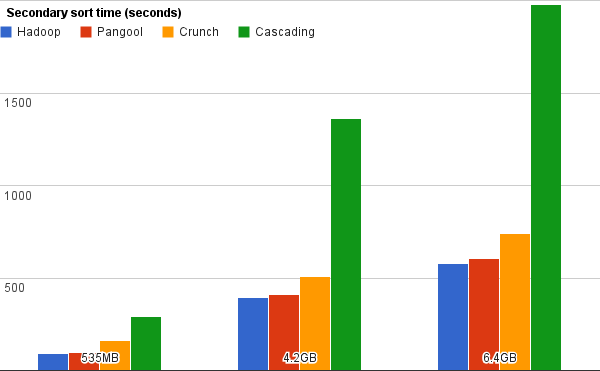
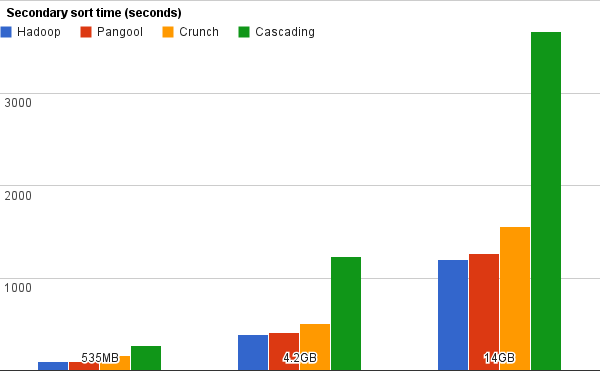
Updating benchmark

diff --git a/benchmark.html b/benchmark.html
@@ -6,20 +6,33 @@ title: Pangool Benchmark
 	<h1>Pangool Benchmark</h1>
 </div>
 
-<h2>Pangool efficiency</h2>
 <p>
 In order to demonstrate that Pangool performs comparable to Hadoop, we have designed a benchmark and executed it in EC2.
-The machines used were of type m1.large. We used Cloudera's CDH3 with its default Hadoop configuration.
+This benchmark has been updated as of <strong>8th of March of 2012</strong>.
 </p>
+<div class="alert">
+We take this benchmark seriously. We have made all its details publicly available so if you find something wrong or have any comment you can just tell us or submit a pull request. You can run this benchmark anytime by following its instructions and if you find something weird, please tell us. 
+</div>
 <p>
-We have executed three different examples with three different input sizes. Each of the examples were launched in a comparable
-implementation in Hadoop, Crunch and Cascading. You can see the implementations in the <a href='https://github.com/datasalt/pangool-benchmark'>pangool-benchmark project</a>. 
-If you find something wrong, please send us your feedback. You are free to suggest alternative implementations that could perform better.
+We have used <a href='http://whirr.apache.org/'>Whirr 0.7.1</a> to instantiate a CDH3 cluster with 4 m1.large slave nodes and 1 master node. We used the following properties:
 </p>
+<pre>
+whirr.cluster-name=cdh-cluster
+whirr.instance-templates=1 hadoop-jobtracker+hadoop-namenode+ganglia-monitor+ganglia-metad,4 hadoop-datanode+hadoop-tasktracker+ganglia-monitor
+whirr.provider=aws-ec2
+whirr.hadoop.install-function=install_cdh_hadoop
+whirr.hadoop.configure-function=configure_cdh_hadoop
+whirr.hardware-id=m1.large
+</pre>
 <p>
+We have executed three different examples with three different input sizes. Each of the examples were launched in a <strong>comparable
+implementation in Hadoop, Crunch and Cascading</strong>. You can see the implementations in the <a href='https://github.com/datasalt/pangool-benchmark'>pangool-benchmark project</a>. 
+If you find <strong>something wrong, please send us your feedback. You are free to suggest alternative implementations that could perform better</strong>.
+</p>
+<div class="alert">
 We have considered <a href='https://github.com/cloudera/crunch'>Crunch</a> and <a href='http://www.cascading.org/'>Cascading</a> for this benchmark in order to have more data points. 
 They are, however, different APIs that were conceived with other requirements in mind. Pangool aims to be a replacament of the low-level MapReduce Hadoop Java API, whereas both Crunch and Cascading abstract the user from MapReduce - which allows them to implement easier flow management, something that Pangool doesn't (yet) aim for.
-</p>
+</div>
 <p>
 For Cascading, we used the 1.2.5 stable release. For Crunch, we built the 0.2.0 version in 2012-02 and used Avro serialization
 because we found it to be much more efficient than TupleWritables.
@@ -39,9 +52,9 @@ in <a href='https://github.com/datasalt/pangool-benchmark/blob/master/src/main/j
 For generating the input datasets, we used the following commands (you'll find them in the launch-benchmark.sh script we mentioned above):
 </p>
 <pre>
-	hadoop jar $PANGOOL_EXAMPLES_JAR url_resolution_gen_data url-map-1.txt url-reg-1.txt 1000 10 1000
-	hadoop jar $PANGOOL_EXAMPLES_JAR url_resolution_gen_data url-map-2.txt url-reg-2.txt 5000 10 1000
-	hadoop jar $PANGOOL_EXAMPLES_JAR url_resolution_gen_data url-map-3.txt url-reg-3.txt 10000 10 1000
+hadoop jar $PANGOOL_EXAMPLES_JAR url_resolution_gen_data url-map-1.txt url-reg-1.txt 1000 10 1000
+hadoop jar $PANGOOL_EXAMPLES_JAR url_resolution_gen_data url-map-2.txt url-reg-2.txt 5000 10 1000
+hadoop jar $PANGOOL_EXAMPLES_JAR url_resolution_gen_data url-map-3.txt url-reg-3.txt 5000 50 1000
 </pre>
 <p>
 These are the results that we obtained in time (seconds) and IO (bytes):
@@ -51,9 +64,8 @@ These are the results that we obtained in time (seconds) and IO (bytes):
 <img src='images/benchmark/ur_io.png'/>
 </p>
 <p>
-We can see that all implementations had a comparable IO footprint. However, we clearly see that Pangool and Hadoop are much closer in efficiency than Crunch or Avro. In this case Pangool performed 8% worse than Hadoop, Crunch 27% and Cascading 65%.
+We can see that all implementations had a comparable IO footprint. However, we clearly see that Pangool and Hadoop are much closer in efficiency than Crunch or Avro. In this case Pangool performed 8% worse than Hadoop, Crunch 27% and Cascading 53%.
 </p>
-
 <h2>Secondary sort</h2>
 
 <p>
@@ -64,9 +76,9 @@ example in <a href='https://github.com/datasalt/pangool-benchmark/blob/master/sr
 For generating the input datasets, we used the following commands (you'll find them in the launch-benchmark.sh script we mentioned above):
 </p>
 <pre>
-	hadoop jar $PANGOOL_BENCHMARK_JAR wordcount_gen_data wordcount-1.txt 1000000 50 4
-	hadoop jar $PANGOOL_BENCHMARK_JAR wordcount_gen_data wordcount-2.txt 5000000 50 4
-	hadoop jar $PANGOOL_BENCHMARK_JAR wordcount_gen_data wordcount-3.txt 10000000 50 4
+hadoop jar $PANGOOL_EXAMPLES_JAR secondarysort_gen_data secondarysort-1.txt 100 100 1000
+hadoop jar $PANGOOL_EXAMPLES_JAR secondarysort_gen_data secondarysort-2.txt 200 200 2000
+hadoop jar $PANGOOL_EXAMPLES_JAR secondarysort_gen_data secondarysort-3.txt 300 300 3000
 </pre>
 <p>
 These are the results that we obtained in time (seconds) and IO (bytes):
@@ -76,7 +88,7 @@ These are the results that we obtained in time (seconds) and IO (bytes):
 <img src='images/benchmark/ss_io.png'/>
 </p>
 <p>
-In this example Hadoop and Pangool are both close in efficiency and IO footprint. However, Cascading deviates considerably in both aspects. Pangool performed 5% worse than Hadoop, Crunch 28% and Cascading 243%.
+In this example Hadoop and Pangool are both close in efficiency and IO footprint. However, Cascading deviates considerably in both aspects. Pangool performed 5% worse than Hadoop, Crunch 28% and Cascading 205%.
 </p>
 
 <h2>Standard Word Count</h2>
@@ -89,9 +101,9 @@ Click to see the implementations for <a href='https://github.com/datasalt/pangoo
 For generating the input datasets, we used the following commands (you'll find them in the launch-benchmark.sh script we mentioned above):
 </p>
 <pre>
-	hadoop jar $PANGOOL_BENCHMARK_JAR wordcount_gen_data wordcount-1.txt 1000000 50 4
-	hadoop jar $PANGOOL_BENCHMARK_JAR wordcount_gen_data wordcount-2.txt 5000000 50 4
-	hadoop jar $PANGOOL_BENCHMARK_JAR wordcount_gen_data wordcount-3.txt 10000000 50 4
+hadoop jar $PANGOOL_BENCHMARK_JAR wordcount_gen_data wordcount-1.txt 1000000 50 4
+hadoop jar $PANGOOL_BENCHMARK_JAR wordcount_gen_data wordcount-2.txt 5000000 50 4
+hadoop jar $PANGOOL_BENCHMARK_JAR wordcount_gen_data wordcount-3.txt 10000000 50 4
 </pre>
 <p>
 These are the results that we obtained in time (seconds) and IO (bytes):
@@ -110,14 +122,14 @@ In this case, Cascading's overhead (257%) is not very meaningful because its def
 <h1>Conclusions</h1>
 
 <p>
-We have seen how Pangool performs comparable to Hadoop in three different cases, performing between 5 and 8% worse 
+We have seen how <strong>Pangool performs comparable to Hadoop</strong> in three different cases, performing <strong>between only 5 and 8% worse</strong> 
 according to this benchmark. Except for the word count example - where Pangool code is larger than Hadoop's word count 
-becase we can't reuse the Combiner as we are not writing Tuples as output - the implementations in Pangool are much 
-more concise and easy than those of Hadoop, which are extremely complex because of the use of custom Comparators, 
+becase we can't reuse the Combiner as we are not writing Tuples as output - the implementations in Pangool <strong>are much 
+more concise and easy than those of Hadoop</strong>, which are extremely complex because of the use of custom Comparators, 
 custom data types and other boilerplate code.
 </p> 
 <p>
-Overall, in code conciseness, Cascading wins in all of the examples, but its performance is in other orders of magnitude. This is understandable, since Cascading is a higher-level API that solves a lot of problems that neither Hadoop or Pangool solve.
+Overall, <strong>in code conciseness, Cascading wins in all of the examples, but its performance is in other orders of magnitude. This is understandable, since Cascading is a higher-level API that solves a lot of problems that neither Hadoop or Pangool solve</strong>.
 </p>
 <p> 
 On the other hand, we have found Crunch to perform very good when used in conjunction with Avro. It is an interesting API because it solves higher-level problems like flow management while retaining a decent performance. However, we found the resulting code for both the Url Resolution and Secondary Sort example to be extremely complex and hard to maintain. 
